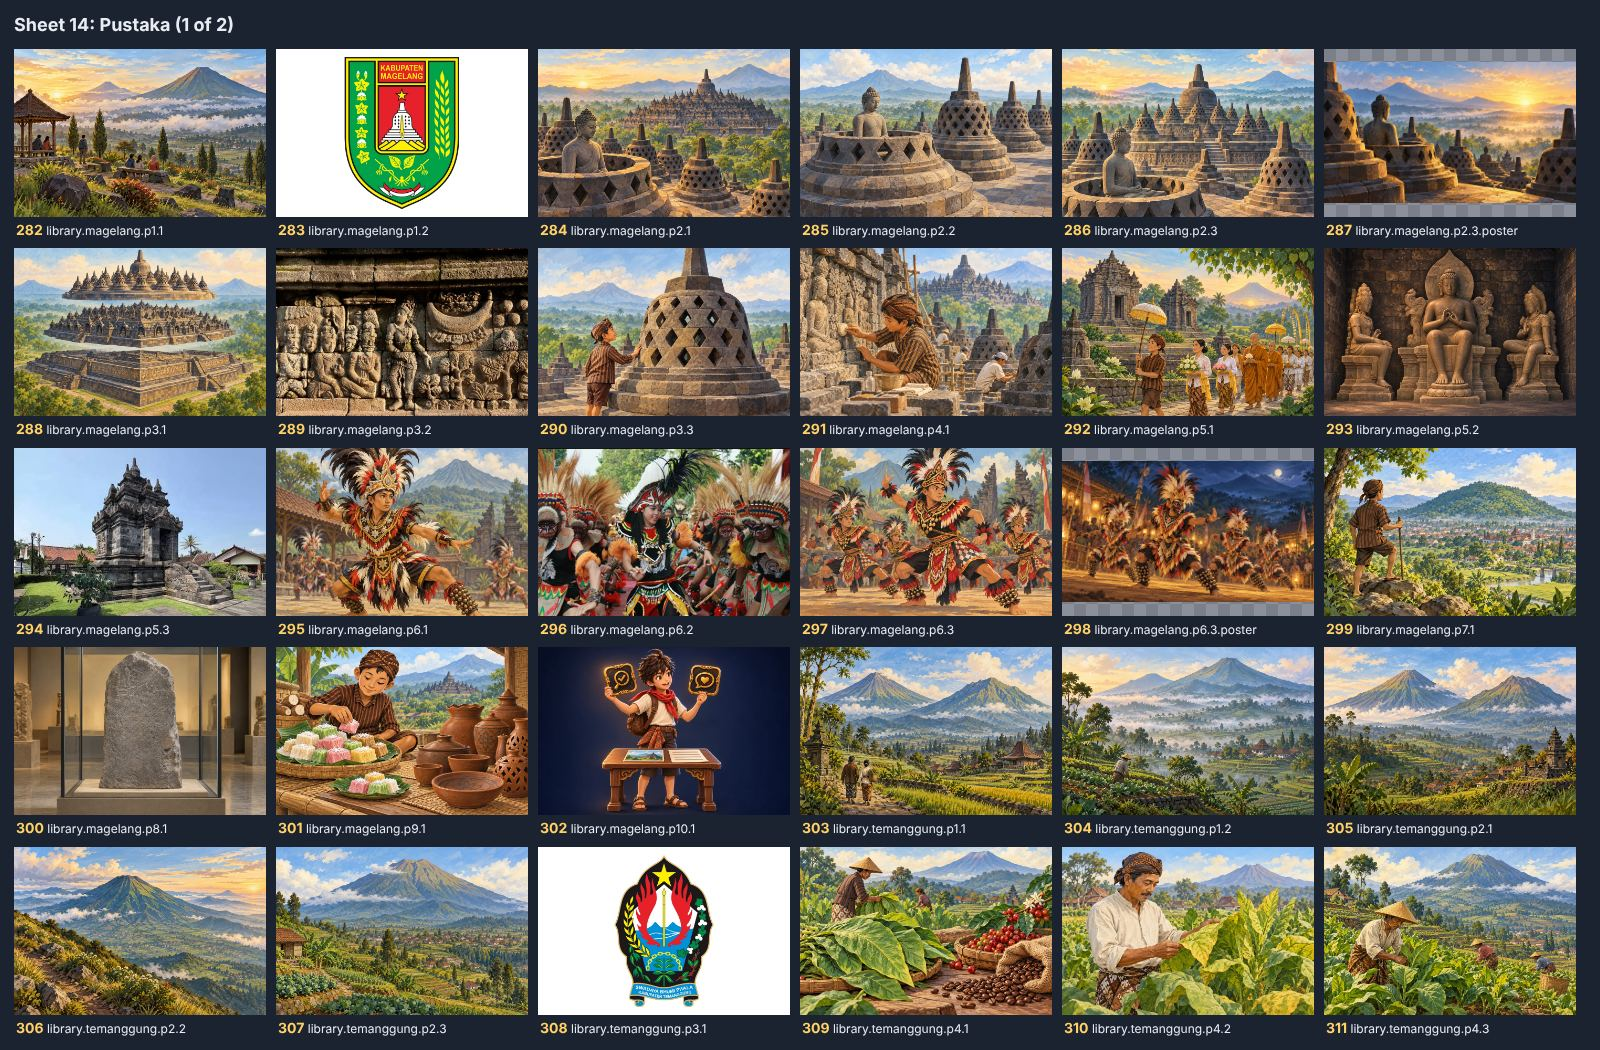
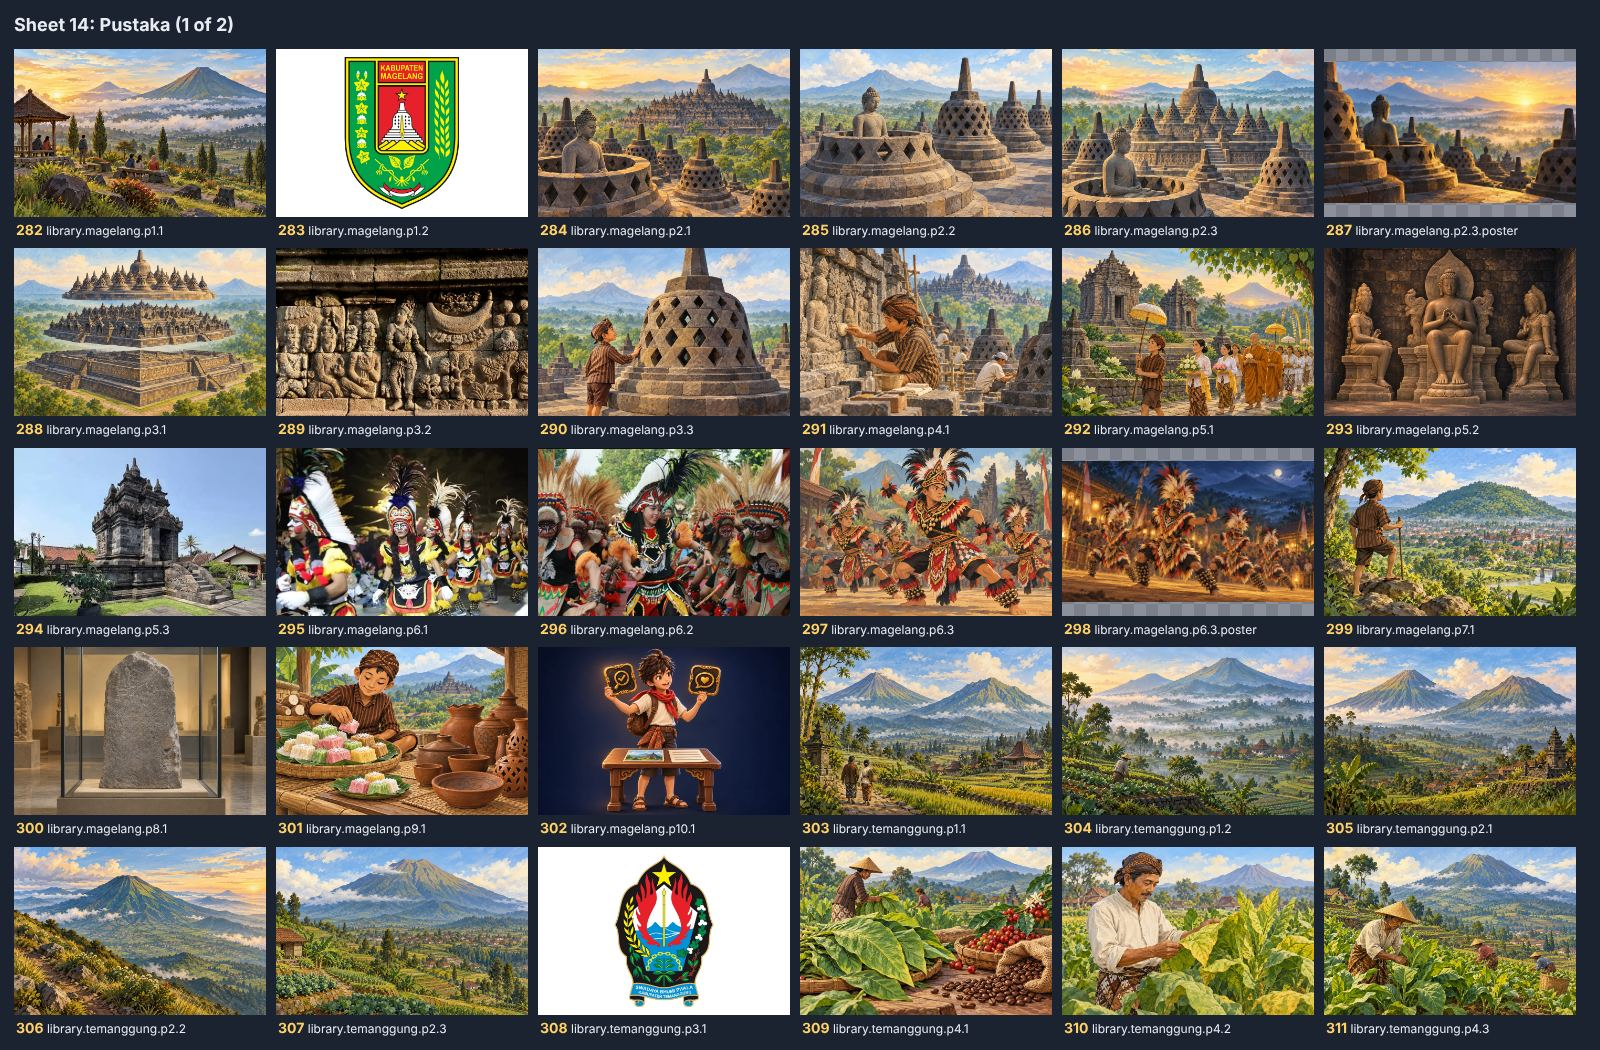
Row 295: the researcher's night photo of a Topeng Ireng dancer installed as the Pustaka picture; three more Topeng Ireng photos kept

Changed region(s): [[0.1562, 0.4267, 0.3438, 0.6095]]

diff --git a/ai-studio/game-images/REVIEW.md b/ai-studio/game-images/REVIEW.md
@@ -552,7 +552,7 @@ Rows 129 to 178, the 50 vector icons `icon.*.svg`. Owner, 15 November 2026: `dro
 | 292 | [`library.magelang.p5.1`](assets/pustaka/library.magelang.p5.1.webp) | Iring-iringan Waisak di dekat Candi Mendut | Gambar Pustaka (Pustaka Kedu) | `fixed: caption` | Caption replaced on 15 November 2026 (`caption` in `data.json`): "Iring-iringan Waisak di dekat Candi Mendut" |
 | 293 | [`library.magelang.p5.2`](assets/pustaka/library.magelang.p5.2.webp) | Arca Buddha di dalam Candi Mendut | Gambar Pustaka (Pustaka Kedu) | `keep` | Checked against the photos on 16 November 2026: the Buddha sits cross-legged, the two flanking statues stand (they sit), two lions in front that the chamber does not have, a child worshipping. Task `R-12` of `../chatgpt-images/TASKS.md`. 16 November 2026: the new picture of `TASKS.md` row R-12 is in `ai-studio/chatgpt-images/out/`; checked by a Claude session against its prompt: three seated statues, the Buddha with both feet on the lotus footstool and hands in front of the chest, no lions, offerings or people. Owner: accepted; installed the same day from `TASKS.md` row R-12. |
 | 294 | [`library.magelang.p5.3`](assets/pustaka/library.magelang.p5.3.webp) | Candi_Pawon_6.jpg | Gambar Pustaka (Pustaka Kedu) | `fixed: a real photo of Candi Pawon from the researcher (licensed) installed as it is, 16 November 2026` | Caption "Candi Pawon, candi kecil di antara Mendut dan Borobudur", credit "Foto Candi Pawon (berizin, dari peneliti)" in `data.json`. The old picture was a painted tall tower with a stupa top, Borobudur behind and a child in front; the real temple is small and squat. |
-| 295 | [`library.magelang.p6.1`](assets/pustaka/library.magelang.p6.1.webp) | Topeng Ireng, Tarian Penuh Semangat | Gambar Pustaka (Pustaka Kedu) |  | Compared with the researcher's Topeng Ireng photos on 16 November 2026: a painting, not a photo; the kuluk, fringes and ankle bells are close, but the face has no make-up (the page: black stripes over white powder) and Balinese-style split gates and temple towers stand behind. No photo of one dancer fits yet: no. 03 has a watermark, no. 02 is a filtered phone still, no. 01 is portrait (a 3:2 crop cuts the crown or the face) and its costume may not be Topeng Ireng (`../chatgpt-images/inbox/reference-Topeng-Ireng-researcher-*`). Waiting for a landscape photo of one dancer without a watermark. |
+| 295 | [`library.magelang.p6.1`](assets/pustaka/library.magelang.p6.1.webp) | Penari Topeng Ireng dengan kuluk bulu warna-warni | Gambar Pustaka (Pustaka Kedu) | `fixed: real photo installed` | Compared with the researcher's Topeng Ireng photos on 16 November 2026: a painting, not a photo; the kuluk, fringes and ankle bells are close, but the face has no make-up (the page: black stripes over white powder) and Balinese-style split gates and temple towers stand behind. No photo of one dancer fits yet: no. 03 has a watermark, no. 02 is a filtered phone still, no. 01 is portrait (a 3:2 crop cuts the crown or the face) and its costume may not be Topeng Ireng (`../chatgpt-images/inbox/reference-Topeng-Ireng-researcher-*`). Waiting for a landscape photo of one dancer without a watermark. Later the same day the researcher sent three landscape photos: the night photo of a dancer with white face make-up and black stripes under a feather kuluk (`inbox/reference-Topeng-Ireng-researcher-night-face-paint-08.webp`) installed as it is, cropped to 3:2 and scaled to 960 × 640, with caption and credit "Foto penari Topeng Ireng (berizin, dari peneliti)" in `data.json`. |
 | 296 | [`library.magelang.p6.2`](assets/pustaka/library.magelang.p6.2.webp) | Barisan penari Topeng Ireng | Gambar Pustaka (Pustaka Kedu) | `fixed: real photo installed` | The old picture was a painting with temple towers like Bali's behind the dancers. 16 November 2026: the researcher's photo of a row of Topeng Ireng dancers (licensed) installed as it is, cropped to 3:2 and scaled from 502 × 335 to 960 × 640 (soft, but clear); caption "Barisan penari Topeng Ireng" and credit "Foto penari Topeng Ireng (berizin, dari peneliti)" in `data.json`. |
 | 297 | [`library.magelang.p6.3`](assets/pustaka/library.magelang.p6.3.webp) | youtube.com/watch?v=CicQwPmwCWQ | Not installed by the game |  | Fact: this Pustaka medium is a video; the importer skips its picture and installs only the cover (`.poster`) |
 | 298 | [`library.magelang.p6.3.poster`](assets/pustaka/library.magelang.p6.3.poster.webp) | library.magelang.p6.3.poster | Sampul video Pustaka (Pustaka Kedu) |  | Fact: installed as the cover of this page's video |

diff --git a/docs/PROGRESS.md b/docs/PROGRESS.md
@@ -102,10 +102,10 @@ Owner request: `gelita-katalog/` was out of date; the pictures follow the game, 
 - [x] Five Candi Arjuna photos from the researcher (332, 333), 16 November 2026: the wide view of the group installed as `library.wonosobo.p6.1`, Candi Arjuna with Semar as `library.wonosobo.p6.2` (caption now "Candi Arjuna, bangunan utama kompleksnya"; no photo is misty); all five kept as references (`inbox/reference-Arjuna-researcher-*`; no. 01 looks like a recoloured copy of no. 03 and no. 05 carries a watermark, never install either). Susun Gambar 239 compared only, for the owner to judge
 - [x] Five bundengan photos from the researcher (335), 16 November 2026: the stage photo (one player at an upright bundengan, one singer) installed as the cover of the video "Bundengan, alat musik unik dari Wonosobo"; all five kept as references (`inbox/reference-bundengan-researcher-*`; the infographic 02 carries the Pemuda Inklusi logo, never install it)
 - [x] Bundengan 3D pictures 115 (avatar), 242 (Susun Gambar, also the round-2 post photo) and 270 (Cari Objek target): owner, 16 November 2026, redo all three; tasks `R-17`, `R-18`, `R-19` (document 39) with the researcher's photos attached (`R-19` edits only the avatar's emblem; its ring follows the interface overhaul)
-- [x] Five Topeng Ireng photos from the researcher (295, 296), 16 November 2026: the row of dancers installed as `library.magelang.p6.2` (caption and credit in `data.json`; the old picture had Balinese temple towers); all five kept as references (`inbox/reference-Topeng-Ireng-researcher-*`; 03 has a watermark, 02 is a filtered phone still, 05 is not Topeng Ireng). **295 still open:** needs a landscape photo of one dancer without a watermark
+- [x] Topeng Ireng photos from the researcher (295, 296), 16 November 2026: both Pustaka pictures are real photos now, the row of dancers as `library.magelang.p6.2` and the night photo of a dancer with white face paint and black stripes as `p6.1` (captions and credits in `data.json`); all eight kept as `inbox/reference-Topeng-Ireng-researcher-*` (03 watermark, 02 filtered phone still, 05 not Topeng Ireng, 07 a group name on the costumes)
 - [x] Candi Pringapus (313, 314), 16 November 2026: the researcher's photos installed as they are, the frontal garden view as `library.temanggung.p5.2` and the Nandi in its cella as `p5.3` (captions and credits in `data.json`); all nine kept as `inbox/reference-Pringapus-researcher-*` (06 carries a photographer's mark; Nandi close-up 03 may be another temple's)
 - [ ] Five Kuda Lumping photos from the researcher (317, 319, 256, 263), 16 November 2026, saved as `inbox/reference-Kuda-Lumping-researcher-*`. Done: the craftspeople photo installed as the video cover 319 (owner accepted the branded paint tin); redo orders `R-20` (263) and `R-21` (256) in document 39 and `TASKS.md`. **317 still open:** needs a landscape performance photo without a photographer's mark
-- [ ] **Pictures of real things that need a real reference** (session check, 16 November 2026; impressions until compared with photos): to confirm with photos: **295** Topeng Ireng (296 done), **317** Kuda Lumping Temanggung (photos received, none fits as it is), Candi Pringapus done (313, 314); from *First look by the AI*: **255** kendi or kendil, **256, 263** the two kuda kepang (now `R-20`, `R-21`). Most of these Pustaka pictures are also painted, not 3D
+- [ ] **Pictures of real things that need a real reference** (session check, 16 November 2026; impressions until compared with photos): to confirm with photos: Topeng Ireng done (295, 296), **317** Kuda Lumping Temanggung (photos received, none fits as it is), Candi Pringapus done (313, 314); from *First look by the AI*: **255** kendi or kendil, **256, 263** the two kuda kepang (now `R-20`, `R-21`). Most of these Pustaka pictures are also painted, not 3D
 - [x] `challenge.post.tmg-4-b` ("Uceng goreng di piring", Cari Objek Temanggung round 2, variant b) had no picture, and the importer skipped `challenge.post.*` keys. Owner, 16 November 2026: a new picture. Slot `challenge.post.*` (1280 × 720) added with tests; task `R-13`, prompt in document 39 (decision log *a slot for the round-2 post photo*)
 - [x] **ChatGPT:** row `R-13`; installed in `ai-studio/game-images/assets/tantangan/` with its `data.json` entry and `REVIEW.md` row 453 (16 November 2026)
 - [ ] `AssetChecklist` does not list round-2 post photos (found 16 November 2026); a missing one shows only as the general placeholder

diff --git a/docs/perombakan-kelas5/CATATAN_IMPLEMENTASI.md b/docs/perombakan-kelas5/CATATAN_IMPLEMENTASI.md
@@ -817,3 +817,9 @@ A session looked at all 21 review sheets and wrote its questions into `ai-studio
 - **Row 319 (`library.temanggung.p8.2.poster`):** photo 01 cropped to 16:9 (800 × 450 from 800 × 534) and scaled to 1280 × 720. `data.json`: title "Perajin kuda-kudaan jaran kepang", desc, "Not generated…" prompt; no caption or credit (a video cover shows the video's own). The old cover was a painted night scene.
 - **`R-20` (263, `challenge.item.tmg-4-03`, the Temanggung target of `tmg-4-x01`) and `R-21` (256, `challenge.item.mgl-4-a05`, a Magelang decoy):** new sections in document 39 and rows in `TASKS.md`, with full paths to photos 01, 03 and 04 (04's maker name and phone number must not be copied) and to two objects of each scene for an equal finish (`tmg-4-09` angklung and `tmg-4-12` sasando; `mgl-4-a07` dadak merak, which `R-21` must not resemble, and `mgl-4-a08` angklung). One shared description from the photos: a flat woven-bamboo cut-out of the whole horse in profile, S-curved neck, long low body, rattan rim, painted, horsehair mane and tail; no stick, wheels, rocker, saddle cloth or tassels. Different paint so the two are not twins: `R-20` white with red and black, `R-21` black with gold. Review rows 256 and 263 set to `redo`; the checklist and *Pemasangan* of document 39 cover both.
 - **Topeng Ireng landscape photos (295)** came as chat pictures only (sent mid-step); the owner is asked to send them again. The night photo of dancers with white face paint and black stripes is the likely fit for `p6.1`.
+
+## Picture review: row 295 installed as a real Topeng Ireng photo (16 November 2026, branch `aru/dreamy-hypatia-gqobyy`)
+
+- The owner sent three landscape Topeng Ireng photos from the researcher as files. Saved unchanged as `inbox/reference-Topeng-Ireng-researcher-*-06` to `-08` with their SHA-256.
+- **Row 295 (`library.magelang.p6.1`, "Penari Topeng Ireng dengan kuluk bulu warna-warni"):** photo 08, a night photo whose middle dancer wears a black and white feather kuluk and white face make-up with black stripes (exactly the page's description), installed as it is: cropped to 3:2 (1004 × 669, centred on that dancer, leaving out a thin black band at the top) and scaled to 960 × 640. `data.json`: title, caption id/en from `docs/pustaka/data/magelang.php`, desc, "Not generated…" prompt, credit "Foto penari Topeng Ireng (berizin, dari peneliti)". Both Topeng Ireng pictures of the page are now real photos.
+- References only: 06 (fisheye, 600 × 420), 07 (already 3:2 and sharp, but the costumes carry a readable group name; second choice, and a good reference for the boots with bells).

diff --git a/docs/revisi-10-analitik/04_CATATAN_KEPUTUSAN.md b/docs/revisi-10-analitik/04_CATATAN_KEPUTUSAN.md
@@ -6,6 +6,13 @@ Catatan ini merekam keputusan selama revisi, dari yang terbaru. Keputusan untuk 
 
 ## 16 November 2026
 
+**Gambar Pustaka "Penari Topeng Ireng dengan kuluk bulu warna-warni" diganti foto asli** (cabang `aru/dreamy-hypatia-gqobyy`) · `asal: pengembang` · `draf pengembang`
+
+- Peneliti mengirim tiga foto Topeng Ireng berformat mendatar (berizin), disimpan sebagai acuan.
+- Foto malam hari dengan penari berkuluk bulu hitam-putih dan berwajah rias putih bergaris hitam, persis seperti uraian halaman, dipasang apa adanya. Kedua gambar halaman Topeng Ireng kini foto asli. Lukisan lama tanpa riasan wajah dan berlatar gapura bergaya Bali.
+
+Entri ini tidak diikuti pembuatan ulang PDF.
+
 **Sampul video perajin kuda-kudaan diganti foto asli; dua kuda kepang Cari Objek dipesan ulang (`R-20`, `R-21`)** (cabang `aru/dreamy-hypatia-gqobyy`) · `asal: pengembang` · `draf pengembang` · mengubah 39
 
 - Pengembang memutuskan foto perajin yang mengecat kuda kepang dipasang sebagai sampul video "perajin kuda-kudaan jaran kepang di Temanggung", meskipun ada kaleng cat bermerek di depan.
